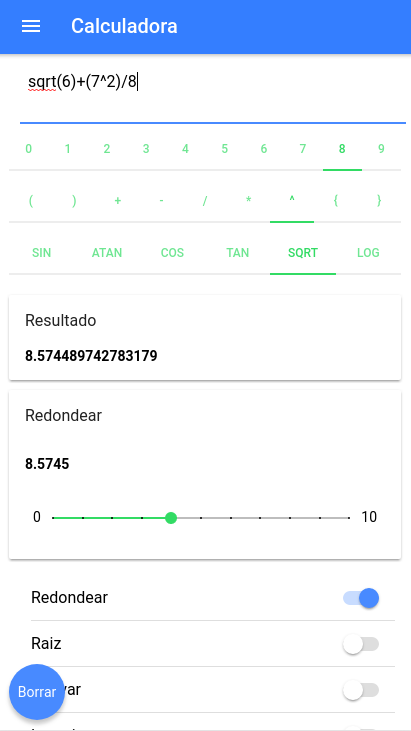
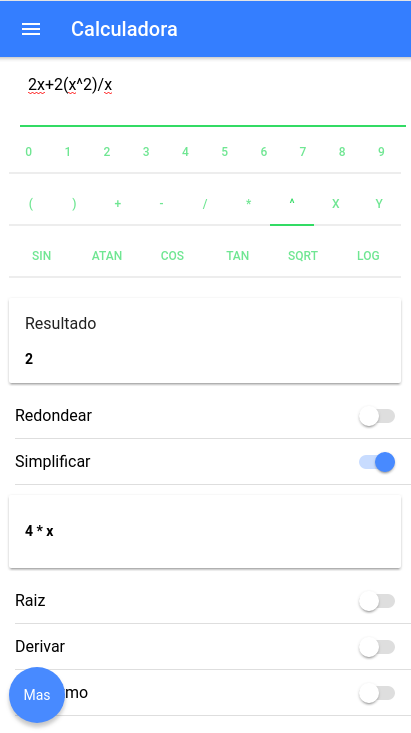
Simplify expressions

diff --git a/src/pages/calc/calc.html b/src/pages/calc/calc.html
@@ -59,8 +59,11 @@
 
   </ion-card>
 
+  <ion-item>
+    <ion-label> Redondear</ion-label>
+    <ion-toggle checked="false" [(ngModel)]="toggleRound"></ion-toggle>
+  </ion-item>
   <ion-card *ngIf="toggleRound">
-    <ion-card-header>Redondear</ion-card-header>
     <ion-card-content>
       <ion-label>
         <strong>
@@ -73,44 +76,56 @@
       </ion-range>
     </ion-card-content>
   </ion-card>
+
+  <ion-item>
+    <ion-label> Simplificar</ion-label>
+    <ion-toggle checked="false" [(ngModel)]="toggleSimpli"(ngModelChange)="onChangeSimpli($event)"></ion-toggle>
+  </ion-item>
+  <ion-card *ngIf="toggleSimpli">
+    <ion-card-content>
+      <ion-label>
+        <strong>
+          {{ resultSimpli }}
+        </strong>
+      </ion-label>
+    </ion-card-content>
+  </ion-card>
+
+  <ion-item>
+    <ion-label> Raiz</ion-label>
+    <ion-toggle checked="false" [(ngModel)]="toggleSqrt"></ion-toggle>
+  </ion-item>
   <ion-card *ngIf="toggleSqrt">
-    <ion-card-header></ion-card-header>
     <ion-card-content></ion-card-content>
   </ion-card>
+
+  <ion-item>
+    <ion-label> Derivar</ion-label>
+    <ion-toggle checked="false" [(ngModel)]="toggleDeri"></ion-toggle>
+  </ion-item>
   <ion-card *ngIf="toggleDeri">
-    <ion-card-header></ion-card-header>
     <ion-card-content></ion-card-content>
   </ion-card>
+
+  <ion-item>
+    <ion-label> Logaritmo</ion-label>
+    <ion-toggle checked="false" [(ngModel)]="toggleLog"></ion-toggle>
+  </ion-item>
   <ion-card *ngIf="toggleLog">
     <ion-card-header></ion-card-header>
     <ion-card-content></ion-card-content>
   </ion-card>
 
 
-  <ion-list inset>
-    <ion-item>
-      <ion-label> Redondear</ion-label>
-      <ion-toggle checked="false" [(ngModel)]="toggleRound"></ion-toggle>
-    </ion-item>
-    <ion-item>
-      <ion-label> Raiz</ion-label>
-      <ion-toggle checked="false" [(ngModel)]="toggleSqrt"></ion-toggle>
-    </ion-item>
-    <ion-item>
-      <ion-label> Derivar</ion-label>
-      <ion-toggle checked="false" [(ngModel)]="toggleDeri"></ion-toggle>
-    </ion-item>
-    <ion-item>
-      <ion-label> Logaritmo</ion-label>
-      <ion-toggle checked="false" [(ngModel)]="toggleLog"></ion-toggle>
-    </ion-item>
-  </ion-list>
 
   <ion-fab bottom left>
-    <button ion-fab>Borrar</button>
+    <button ion-fab>Mas</button>
     <ion-fab-list side="top">
       <button ion-fab (click)="cleanDisplay()">
         <<<
+      </button>
+      <button ion-fab>
+        dx
       </button>
     </ion-fab-list>
     <ion-fab-list side="right">

diff --git a/src/pages/calc/calc.ts b/src/pages/calc/calc.ts
@@ -17,6 +17,9 @@ export class CalcPage {
   // Model options
   resultRound: string = ''  // Muestra el resultado del redondeo
   modelRound: string = ''  // Modelo que almacena el valor de cambio del 'ion-range'
+  //
+  resultSimpli: string = '' // Muestra la ecuacion simplificada
+  toggleSimpli: boolean = false
 
   // Models segment
   modelNums: string = ''
@@ -35,14 +38,22 @@ export class CalcPage {
     this._display = value;
 
     try {
+      // Evalua la expression y muetra resultado
       this.result = this.mathjs.eval(this.display) as string;
     } catch (e) { }
+
+    try {
+      // Simplifica la expression
+      if (this.toggleSimpli) {
+        this.onChangeSimpli()
+      }
+    } catch (error) { }
 
     this.setFocusDisplay()
     this.cleanModelsSegments()
   }
 
-  listCharsBase: Array<{ value: string, show: string }> = [{ value: '(', show: '(' }, { value: ')', show: ')' }, { value: '+', show: '+' }, { value: '-', show: '-' }, { value: '/', show: '/' }, { value: '*', show: '*' }, { value: '^', show: '^' }, { value: '{', show: '{' }, { value: '}', show: '}' }]
+  listCharsBase: Array<{ value: string, show: string }> = [{ value: '(', show: '(' }, { value: ')', show: ')' }, { value: '+', show: '+' }, { value: '-', show: '-' }, { value: '/', show: '/' }, { value: '*', show: '*' }, { value: '^', show: '^' }, { value: 'x', show: 'x' }, { value: 'y', show: 'y' }]
 
   listCharsAlgebra: Array<{ value: string, show: string }> = [{ value: 'sin(', show: 'Sin' }, { value: 'atan(', show: 'Atan' }, { value: 'cos(', show: 'Cos' }, { value: 'tan(', show: 'Tan' }, { value: 'sqrt(', show: 'Sqrt' }, { value: 'log(', show: 'Log' }]
 
@@ -94,8 +105,20 @@ export class CalcPage {
     }
   }
 
+  /**
+   * Redondea el resultado de la expresion
+   * @param event 
+   */
   onChangeRound(event: any) {
     this.resultRound = this.mathjs.round(this.result, parseFloat(this.modelRound)).toString();
+  }
+
+  /**
+   * Simplifica la expresion
+   * @param event 
+   */
+  onChangeSimpli(event?: any) {
+    this.resultSimpli = this.mathjs.simplify(this.display) || '';
   }
 
   /**

diff --git a/src/providers/math-js/math-js.ts b/src/providers/math-js/math-js.ts
@@ -23,4 +23,8 @@ export class MathJsProvider {
     return M.round(num, round);
   }
 
+  public simplify(expression: string) {
+    return M.simplify(expression);
+  }
+
 }

diff --git a/README.md b/README.md
@@ -4,10 +4,12 @@
 - [x] Evaluate and resolve expressions
 - [x] Dynamic rounding of real numbers
 - [x] Basic trigonometry
+- [x] Simplify expressions
 - [ ] Differential equations _(in progress)_
 - [ ] Graph simulation
 - [ ] Markov chain analysis
-- [ ] Unit converter _(in progress)_
+- [ ] Unit converter _(in progress)
+- [ ] Vectors analysis
 
 ## Screenshots
 <img src="./docs/resources/calc.png"/>

diff --git a/docs/notes.md b/docs/notes.md
@@ -1,0 +1,1 @@
+http://victorjs.org/
